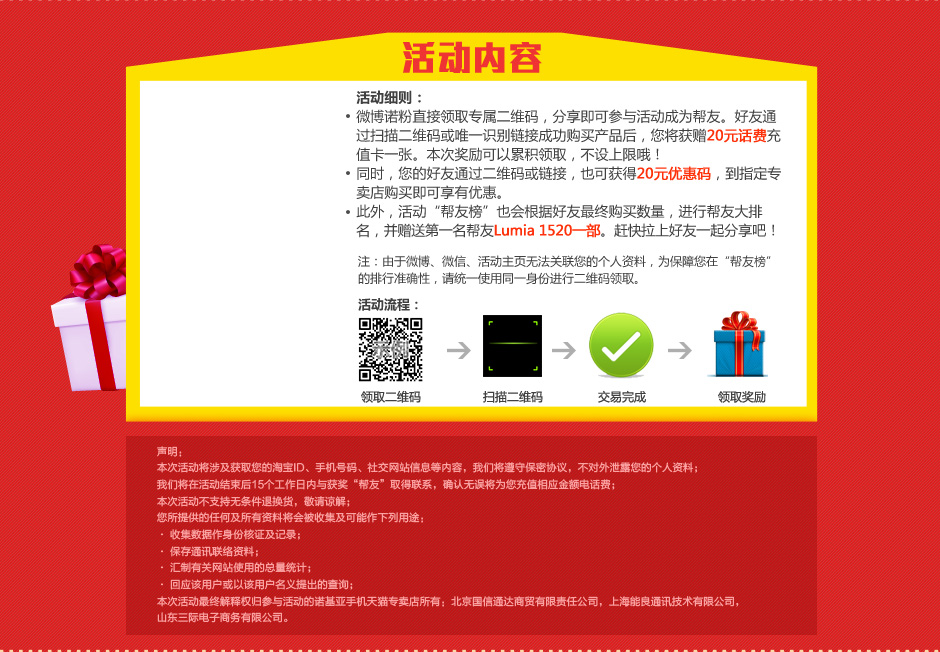
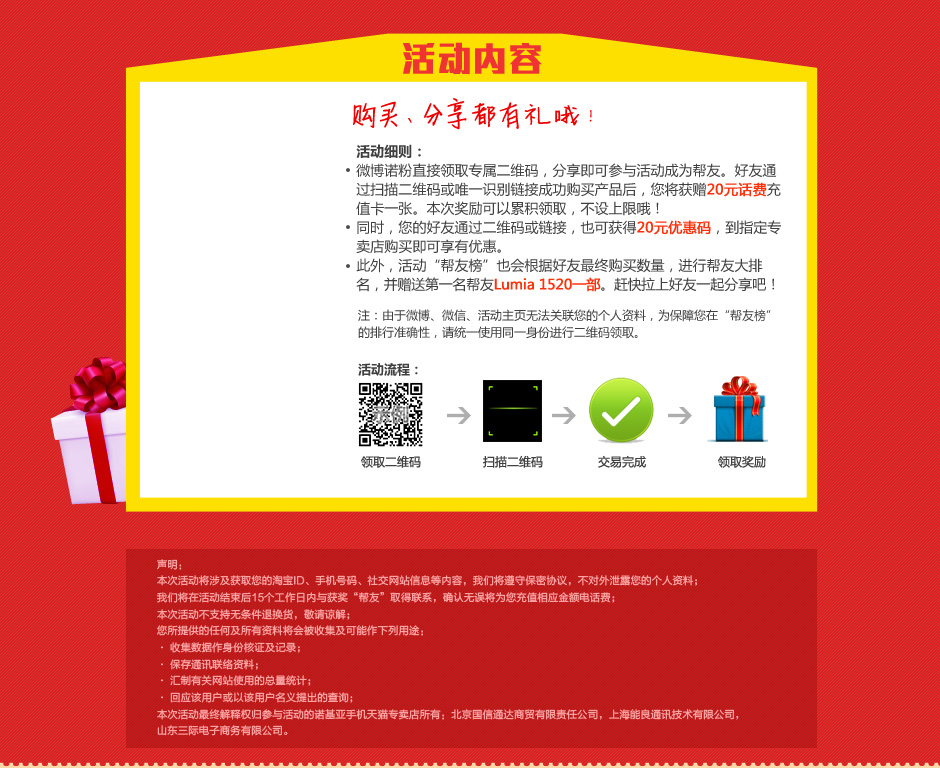
333

diff --git a/Public/weibo/css/style.css b/Public/weibo/css/style.css
@@ -27,10 +27,10 @@ a:active{noOutline:expression(this.onFocus=this.blur());}
 .fr{ float:right; width:80px;}
 
 .contain{ width:940px; margin:0 auto; background:#fcd8a8}
-.header{ width:940px; height:367px; background:url(../images/top.jpg) no-repeat;}
+.header{ width:940px; height:362px; background:url(../images/top.jpg) no-repeat;}
 	a.logo{ float:right; width:114px; height:24px; margin:25px 68px 0 0; display:inline-block;}
 	
-.hdnr{ width:940px; height:652px; background:url(../images/hdnr.jpg) no-repeat;}
+.hdnr{ width:940px; height:768px; background:url(../images/hdnr.jpg) no-repeat;}
 	.ewmbox{ width:153px; height:250px; padding:107px 0 0 173px;}
 		.ewmimg{ width:153px; height:153px; margin:0 0 30px -10px;}
 		.ewmimg img{ border:0;}

diff --git a/Public/wechat/css/common.css b/Public/wechat/css/common.css
@@ -36,7 +36,7 @@ html{-webkit-text-size-adjust:none;}/*chrome font-size<12px */
 	.top,.hdnr,.byb,.zxjx,.shengming,.product,.yhm,.product2,.bybox{width:100%; max-width:640px; margin:0 auto;}
 	.top img,.hdnr img,.byb img,.zxjx img,.shengming img,.yhm img,.bybox img{ width:100%;  vertical-align:bottom;}
 	.hdnr{ position:relative}
-	.hdnr .btn_lq{ position:absolute; top:19%; left:31%; width:38%; margin:0 auto; text-align:center;}
+	.hdnr .btn_lq{ position:absolute; top:16%; left:31%; width:38%; margin:0 auto; text-align:center;}
 	.hdnr .btn_lq a img{ border:0; width:100%;}
 	.hdnr .btn_lq a:hover img{opacity:0.8;filter:alpha(opacity=80);}
 	
